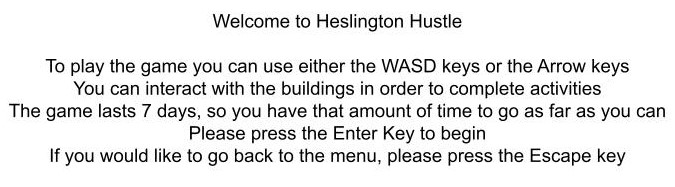
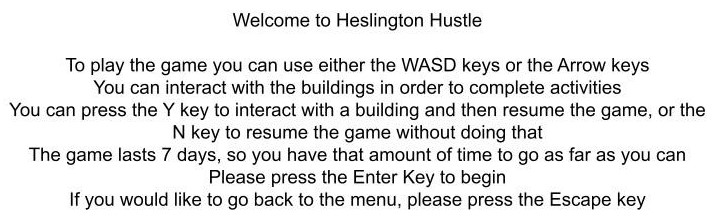
Changed the instructions image, edited the player collision methods to push the player further back when colliding with the wall, and commented the code

Changed region(s): [[0.0, 0.2406, 0.9956, 0.9626], [0.3111, 0.0535, 0.6844, 0.1872]]

diff --git a/core/src/com/mygdx/game/GameScreen.java b/core/src/com/mygdx/game/GameScreen.java
@@ -90,9 +90,10 @@ public class GameScreen implements Screen {
 		game.font.draw(game.batch, "Times Eaten: " + foodCounter, 800, 560);
 		game.font.draw(game.batch, "Day: " + currentDay, 10, 580);
 
-		if (player.GetCurrentPlayerState() != playerState.LOCKED)
-		player.CheckForInput();
-
+		// Players interaction with piazza building
+		if (player.GetCurrentPlayerState() != playerState.LOCKED){
+			player.CheckForInput();
+		}
 		if (piazza.GetCurrentState() == locationState.INTERACTING_WITH_PLAYER) {
 			if (Gdx.input.isKeyPressed(Input.Keys.Y)) {
 				player.SetState(playerState.IDLE);
@@ -105,7 +106,7 @@ public class GameScreen implements Screen {
 				piazza.SetCurrentState(locationState.IDLE);
 			}
 		}
-
+		// Players interaction with glasshouse building
 		if (glasshouse.GetCurrentState() == locationState.INTERACTING_WITH_PLAYER) {
 			if (Gdx.input.isKeyPressed(Input.Keys.Y)) {
 				player.SetState(playerState.IDLE);
@@ -118,7 +119,7 @@ public class GameScreen implements Screen {
 				glasshouse.SetCurrentState(locationState.IDLE);
 			}
 		}
-
+		// Players interaction with lake
 		if (lake.GetCurrentState() == locationState.INTERACTING_WITH_PLAYER) {
 			if (Gdx.input.isKeyPressed(Input.Keys.Y)) {
 				player.SetState(playerState.IDLE);
@@ -131,7 +132,7 @@ public class GameScreen implements Screen {
 				lake.SetCurrentState(locationState.IDLE);
 			}
 		}
-
+		// Players interaction with house
 		if (house.GetCurrentState() == locationState.INTERACTING_WITH_PLAYER) {
 			if (Gdx.input.isKeyPressed(Input.Keys.Y)) {
 				player.SetState(playerState.IDLE);

diff --git a/core/src/com/mygdx/game/Player.java b/core/src/com/mygdx/game/Player.java
@@ -140,16 +140,16 @@ public class Player {
     public void exitLocation() {
         switch (currentDirection) {
             case UP:
-                this.SetYPosition(this.GetYPosition() - 1);
+                this.SetYPosition(this.GetYPosition() - 10);
                 break;
             case RIGHT:
-                this.SetXPosition(this.GetXPosition() - 1);
+                this.SetXPosition(this.GetXPosition() - 10);
                 break;
             case DOWN:
-                this.SetYPosition(this.GetYPosition() + 1);
+                this.SetYPosition(this.GetYPosition() + 10);
                 break;
             case LEFT:
-                this.SetXPosition(this.GetXPosition() + 1);
+                this.SetXPosition(this.GetXPosition() + 10);
             default:
                 break;
         }
